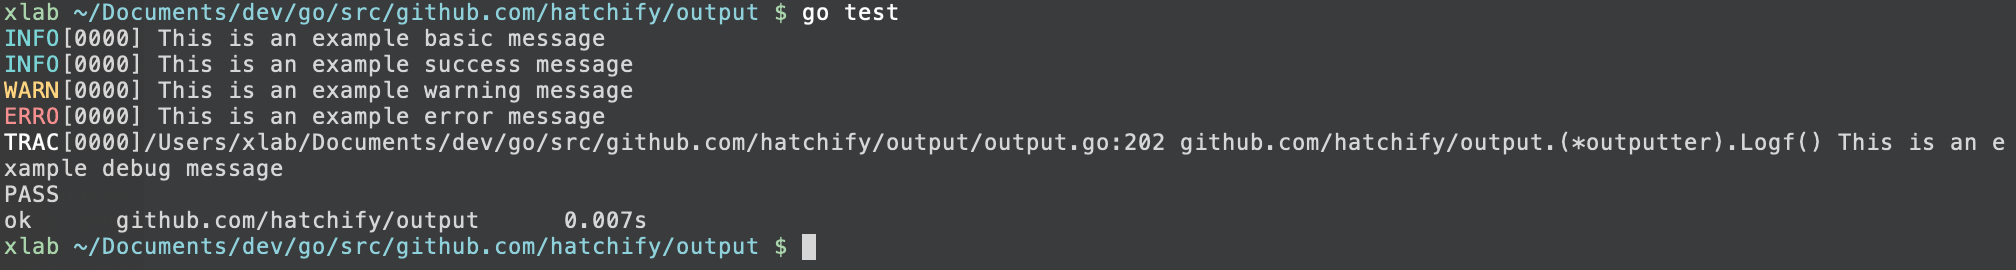
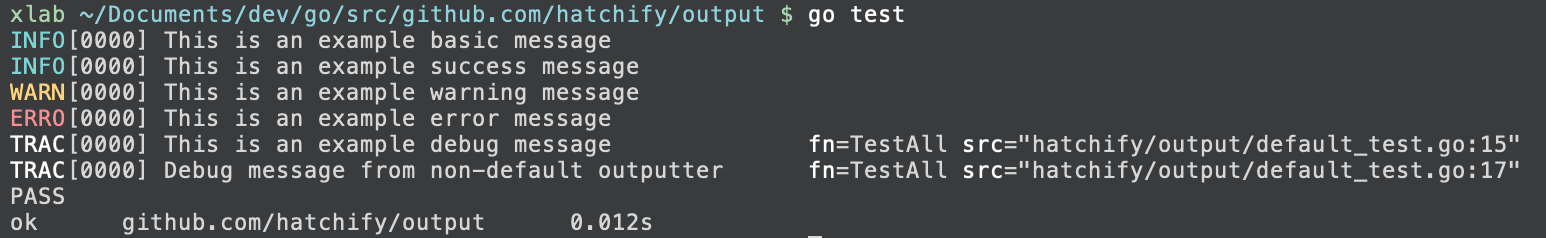
Changed Debug impl to use debug hook.

Changed region(s): [[0.0, 0.0, 0.9935, 0.8529], [0.5278, 0.6765, 0.9935, 0.7647], [0.0, 0.8529, 0.4347, 0.9706]]

diff --git a/output.go b/output.go
@@ -7,6 +7,7 @@ import (
 	"sync"
 	"time"
 
+	debugHook "github.com/hatchify/output/hooks/debug"
 	"github.com/sirupsen/logrus"
 	"github.com/xlab/closer"
 )
@@ -18,12 +19,11 @@ func NewOutputter(wc io.Writer, formatter Formatter, hooks ...Hook) Outputter {
 	}
 	out := &outputter{
 		Logger: &logrus.Logger{
-			Out:          wc,
-			ReportCaller: false,
-			Formatter:    formatter,
-			Hooks:        make(LevelHooks),
-			Level:        DebugLevel,
-			ExitFunc:     closer.Exit,
+			Out:       wc,
+			Formatter: formatter,
+			Hooks:     make(LevelHooks),
+			Level:     DebugLevel,
+			ExitFunc:  closer.Exit,
 		},
 
 		wc:       wc,
@@ -42,10 +42,9 @@ type outputter struct {
 	mux *sync.Mutex
 	wc  io.Writer
 
-	init         sync.Once
-	initDone     bool
-	reportCaller bool
-	closed       bool
+	init     sync.Once
+	initDone bool
+	closed   bool
 }
 
 func (out *outputter) initOnce() {
@@ -59,14 +58,15 @@ func (out *outputter) initOnce() {
 		}
 		// otherwise init output with conservative defaults
 		out.Logger = &logrus.Logger{
-			Out:          out.wc,
-			ReportCaller: out.reportCaller,
-			Formatter:    new(TextFormatter),
-			Hooks:        make(LevelHooks),
-			Level:        DebugLevel,
-			ExitFunc:     closer.Exit,
+			Out:       out.wc,
+			Formatter: new(TextFormatter),
+			Hooks:     make(LevelHooks),
+			Level:     DebugLevel,
+			ExitFunc:  closer.Exit,
 		}
-		// out.Logger.AddHook()
+		out.Logger.AddHook(debugHook.NewHook(&debugHook.HookOptions{
+			FramesOffset: 12,
+		}))
 		out.mux = new(sync.Mutex)
 		out.initDone = true
 	})
@@ -117,14 +117,6 @@ func (out *outputter) Tracef(format string, args ...interface{}) {
 
 func (out *outputter) Debugf(format string, args ...interface{}) {
 	out.initOnce()
-
-	out.mux.Lock()
-	defer out.mux.Unlock()
-	// always use report caller on debug calls
-	// pro tip: may change formatter as well
-	out.Logger.SetReportCaller(true)
-	defer out.Logger.SetReportCaller(out.reportCaller)
-
 	out.Logf(DebugLevel, format, args...)
 }
 
@@ -189,14 +181,6 @@ func (out *outputter) Traceln(args ...interface{}) {
 
 func (out *outputter) Debugln(args ...interface{}) {
 	out.initOnce()
-
-	out.mux.Lock()
-	defer out.mux.Unlock()
-	// always use report caller on debug calls
-	// pro tip: may change formatter as well
-	out.Logger.SetReportCaller(true)
-	defer out.Logger.SetReportCaller(out.reportCaller)
-
 	out.Logln(DebugLevel, args...)
 }
 
@@ -224,14 +208,6 @@ func (out *outputter) Fatalln(args ...interface{}) {
 
 func (out *outputter) Debug(format string, args ...interface{}) {
 	out.initOnce()
-
-	out.mux.Lock()
-	defer out.mux.Unlock()
-	// always use report caller on debug calls
-	// pro tip: may change formatter as well
-	out.Logger.SetReportCaller(true)
-	defer out.Logger.SetReportCaller(out.reportCaller)
-
 	out.Logf(DebugLevel, format, args...)
 }
 
@@ -298,15 +274,6 @@ func (out *outputter) SetFormatter(formatter Formatter) {
 func (out *outputter) SetOutput(output io.Writer) {
 	out.initOnce()
 	out.Logger.SetOutput(output)
-}
-
-// SetReportCaller enables callee source file and line reporting.
-func (out *outputter) SetReportCaller(reportCaller bool) {
-	out.initOnce()
-	out.mux.Lock()
-	out.reportCaller = reportCaller
-	out.mux.Unlock()
-	out.Logger.SetReportCaller(reportCaller)
 }
 
 // ReplaceHooks replaces the logger hooks and returns the old ones

diff --git a/default_test.go b/default_test.go
@@ -1,6 +1,11 @@
 package output
 
-import "testing"
+import (
+	"os"
+	"testing"
+
+	debugHook "github.com/hatchify/output/hooks/debug"
+)
 
 func TestAll(t *testing.T) {
 	Print("This is an example basic message")
@@ -8,6 +13,8 @@ func TestAll(t *testing.T) {
 	Warning("This is an example warning message")
 	Error("This is an example error message")
 	Debug("This is an example debug message")
+	NewOutputter(os.Stderr, nil, debugHook.NewHook(nil)).
+		Debug("Debug message from non-default outputter")
 }
 
 func ExamplePrint() {

diff --git a/classic.go b/classic.go
@@ -64,11 +64,6 @@ func (out *Logger) entryWithPrefix() *Entry {
 }
 
 func (out *Logger) Debug(format string, args ...interface{}) {
-	out.mux.Lock()
-	defer out.mux.Unlock()
-	out.Logger.SetReportCaller(true)
-	defer out.Logger.SetReportCaller(false)
-
 	out.entryWithPrefix().Logf(DebugLevel, format, args...)
 }
 

diff --git a/iface.go b/iface.go
@@ -64,7 +64,6 @@ type Outputter interface {
 
 	SetFormatter(formatter Formatter)
 	SetOutput(output io.Writer)
-	SetReportCaller(reportCaller bool)
 	SetLevel(level Level)
 	GetLevel() Level
 	IsLevelEnabled(level Level) bool

diff --git a/README.md b/README.md
@@ -4,9 +4,11 @@ Output is an output logger helper library a few simple features:
 * Thread-safe
 * Debug output (with filename and line number)
 
-![screenshot](https://github.com/hatchify/output/blob/master/screenshot.png?raw=true "Screenshot of output")
+![screenshot](screenshot.png "Screenshot of output")
 
 ## Hooks
+
+### Debug
 
 ### Metrics
 
